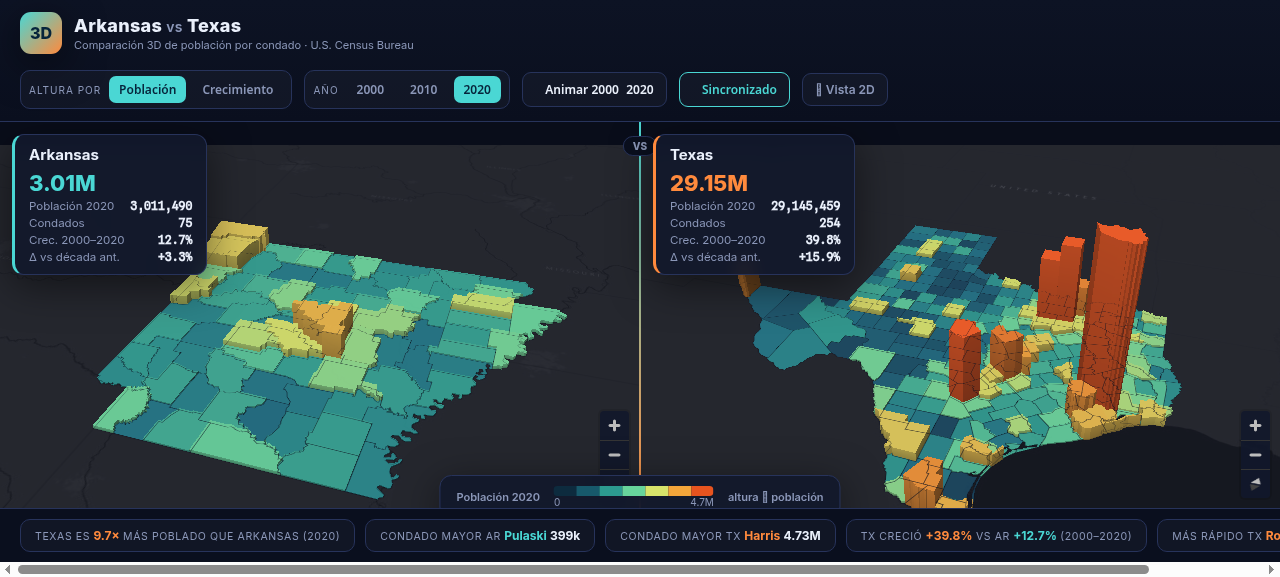
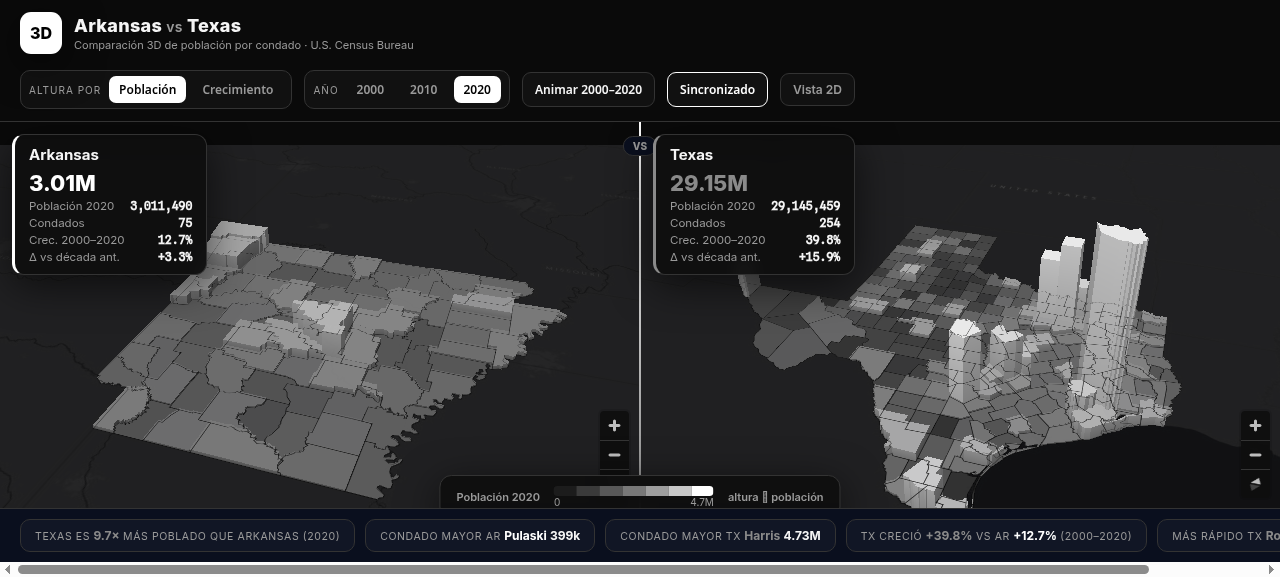
Restyle UI: monochrome overlays, remove emojis, fix KPI/zoom overlap
- Convert all UI chrome (panels, menus, overlays, buttons, charts) to a
  black & white palette in both 2D and 3D views
- 3D extrusion ramp now grayscale (dark=low, white=high)
- Remove all emoji from UI labels and buttons
- Move Leaflet zoom controls to top-right so they no longer sit under
  the KPI strip

diff --git a/web/app.js b/web/app.js
@@ -308,18 +308,18 @@ function lineChart(points, labels, title, sub) {
   const y = v => H - pad.b - ((v - min)/(max - min || 1)) * (H - pad.t - pad.b);
   const path = points.map((v,i)=> (i===0?'M':'L') + x(i).toFixed(1) + ' ' + y(v).toFixed(1)).join(' ');
   const area = path + ` L ${x(points.length-1)} ${H-pad.b} L ${x(0)} ${H-pad.b} Z`;
-  const dots = points.map((v,i)=>`<circle cx="${x(i).toFixed(1)}" cy="${y(v).toFixed(1)}" r="2.6" fill="#4ad7d4"/>`).join('');
+  const dots = points.map((v,i)=>`<circle cx="${x(i).toFixed(1)}" cy="${y(v).toFixed(1)}" r="2.6" fill="#ffffff"/>`).join('');
   const xlabels = labels.map((l,i)=> (i%3===0||i===labels.length-1)
     ? `<text class="axis-label" x="${x(i)}" y="${H-6}" text-anchor="middle">${l}</text>` : '').join('');
   const ylabels = [max, (max+min)/2, min].map(v =>
     `<text class="axis-label" x="4" y="${(y(v)+3).toFixed(1)}">${fmtK(v)}</text>`).join('');
   svg.innerHTML = `
     <defs><linearGradient id="g" x1="0" y1="0" x2="0" y2="1">
-      <stop offset="0%" stop-color="#4ad7d4" stop-opacity=".45"/>
-      <stop offset="100%" stop-color="#4ad7d4" stop-opacity="0"/>
+      <stop offset="0%" stop-color="#ffffff" stop-opacity=".30"/>
+      <stop offset="100%" stop-color="#ffffff" stop-opacity="0"/>
     </linearGradient></defs>
     <path d="${area}" fill="url(#g)"/>
-    <path d="${path}" fill="none" stroke="#4ad7d4" stroke-width="2"/>
+    <path d="${path}" fill="none" stroke="#ffffff" stroke-width="2"/>
     ${dots}${xlabels}${ylabels}`;
 }
 
@@ -381,11 +381,11 @@ function renderQuality() {
       <small>Completitud media · clave: <code>${q.key_field}</code> (${q.unique_keys} únicas)</small></div>
     </div>
     <div class="q-issues">${q.issues.map(i =>
-      `<span class="q-issue ${/Sin anomalias/i.test(i)?'ok':'warn'}">${/Sin anomalias/i.test(i)?'✓':'⚠'} ${i}</span>`).join('')}</div>`;
+      `<span class="q-issue ${/Sin anomalias/i.test(i)?'ok':'warn'}">${/Sin anomalias/i.test(i)?'OK':'!'} · ${i}</span>`).join('')}</div>`;
   el.innerHTML = fields.map(([name, v]) => `
     <div class="q-field">
       <div class="qf-top"><code>${name}</code><span>${v.completeness}%</span></div>
-      <div class="qf-bar"><span style="width:${v.completeness}%; background:${v.completeness>=99?'#5fd0a8':v.completeness>=90?'#f2e394':'#e8622a'}"></span></div>
+      <div class="qf-bar"><span style="width:${v.completeness}%; background:${v.completeness>=99?'#f5f5f5':v.completeness>=90?'#9a9a9a':'#5a5a5a'}"></span></div>
       <div class="qf-meta">${v.nulls>0?`<span class="warn">${v.nulls} nulos</span> · `:''}${
         v.min!=null ? `min ${fmtK(v.min)} · máx ${fmtK(v.max)} · media ${fmtK(v.mean)}` : 'categórico'}</div>
     </div>`).join('');
@@ -435,7 +435,7 @@ function exportCitation() {
     + `Servicio ArcGIS REST (FEATURESERVICES/Boundaries/FeatureServer). `
     + `CRS EPSG:4326. Consultado ${new Date().toLocaleDateString('es')}. Dominio público (${year}).`;
   navigator.clipboard?.writeText(cite).then(
-    () => flashNote('🔖 Cita copiada al portapapeles'),
+    () => flashNote('Cita copiada al portapapeles'),
     () => download('cita.txt', cite, 'text/plain'));
 }
 
@@ -505,9 +505,9 @@ function bindControls() {
 function togglePlay() {
   const btn = document.getElementById('playBtn');
   if (state.playing) {
-    clearInterval(state.playTimer); state.playing = false; btn.textContent = '▶ Animar un siglo'; return;
+    clearInterval(state.playTimer); state.playing = false; btn.textContent = 'Animar un siglo'; return;
   }
-  state.playing = true; btn.textContent = '⏸ Pausar';
+  state.playing = true; btn.textContent = 'Pausar';
   let idx = DECADES.indexOf(state.year);
   state.playTimer = setInterval(() => {
     idx = (idx + 1) % DECADES.length;
@@ -519,8 +519,10 @@ function togglePlay() {
 
 /* ---------------- init ---------------- */
 async function init() {
-  map = L.map('map', { zoomControl: true, attributionControl: false, minZoom: 6, maxZoom: 12 })
+  map = L.map('map', { zoomControl: false, attributionControl: false, minZoom: 6, maxZoom: 12 })
     .setView([34.8, -92.3], 7);
+  // Controles de zoom a la derecha para no chocar con los KPIs (arriba-izquierda)
+  L.control.zoom({ position: 'topright' }).addTo(map);
 
   L.tileLayer('https://server.arcgisonline.com/ArcGIS/rest/services/Canvas/World_Dark_Gray_Base/MapServer/tile/{z}/{y}/{x}', { maxZoom: 16 }).addTo(map);
   L.tileLayer('https://server.arcgisonline.com/ArcGIS/rest/services/Canvas/World_Dark_Gray_Reference/MapServer/tile/{z}/{y}/{x}', { maxZoom: 16, opacity: .9 }).addTo(map);

diff --git a/web/style.css b/web/style.css
@@ -1,17 +1,18 @@
 :root {
-  --bg: #0b1020;
-  --bg-soft: #121a30;
-  --panel: #151d35;
-  --panel-2: #1b2544;
-  --line: #27335b;
-  --text: #e8edf9;
-  --muted: #8b97b8;
-  --accent: #4ad7d4;
-  --accent-2: #f2b705;
-  --county: #4ad7d4;
-  --muni: #ff7e6b;
-  --cong: #b388ff;
-  --shadow: 0 10px 40px rgba(0, 0, 0, .45);
+  /* Paleta monocromática blanco y negro para la UI */
+  --bg: #0a0a0a;
+  --bg-soft: #111111;
+  --panel: #161616;
+  --panel-2: #202020;
+  --line: #333333;
+  --text: #f5f5f5;
+  --muted: #9a9a9a;
+  --accent: #ffffff;
+  --accent-2: #cfcfcf;
+  --county: #ffffff;
+  --muni: #bdbdbd;
+  --cong: #7d7d7d;
+  --shadow: 0 10px 40px rgba(0, 0, 0, .6);
 }
 
 * { box-sizing: border-box; margin: 0; padding: 0; }
@@ -55,8 +56,8 @@ body {
   border-radius: 12px;
   display: grid; place-items: center;
   font-weight: 800; font-size: 18px;
-  color: #06243b;
-  background: linear-gradient(135deg, var(--accent), var(--accent-2));
+  color: #000;
+  background: #fff;
   box-shadow: var(--shadow);
 }
 .brand h1 { font-size: 16px; font-weight: 700; letter-spacing: .2px; }
@@ -111,7 +112,7 @@ body {
 .layer-btn.active {
   border-color: var(--accent);
   box-shadow: 0 0 0 1px var(--accent) inset;
-  background: linear-gradient(135deg, rgba(74,215,212,.14), rgba(74,215,212,.04));
+  background: rgba(255,255,255,.08);
 }
 
 /* metric + buttons */
@@ -177,9 +178,9 @@ body {
 
 /* ---------- MAP ---------- */
 #map-wrap { position: relative; }
-#map { position: absolute; inset: 0; background: #0b1020; }
+#map { position: absolute; inset: 0; background: #000; }
 
-.leaflet-container { background: #0b1020 !important; font-family: 'Inter', sans-serif; }
+.leaflet-container { background: #000 !important; font-family: 'Inter', sans-serif; }
 .leaflet-control-zoom a {
   background: var(--panel) !important;
   color: var(--text) !important;
@@ -197,7 +198,7 @@ body {
   max-width: calc(100% - 32px);
 }
 .kpi {
-  background: rgba(21,29,53,.86);
+  background: rgba(10,10,10,.9);
   backdrop-filter: blur(8px);
   border: 1px solid var(--line);
   border-radius: 12px;
@@ -214,8 +215,8 @@ body {
   position: absolute;
   z-index: 600;
   pointer-events: none;
-  background: rgba(10,15,31,.95);
-  border: 1px solid var(--accent);
+  background: rgba(10,10,10,.96);
+  border: 1px solid var(--line);
   border-radius: 10px;
   padding: 10px 12px;
   min-width: 170px;
@@ -239,7 +240,7 @@ body {
   bottom: 16px; right: 16px;
   z-index: 500;
   width: 340px;
-  background: rgba(21,29,53,.9);
+  background: rgba(10,10,10,.92);
   backdrop-filter: blur(8px);
   border: 1px solid var(--line);
   border-radius: 14px;
@@ -270,16 +271,16 @@ body {
   display: block;
   text-align: center;
   text-decoration: none;
-  color: #06243b;
+  color: #000;
   font-size: 13px;
   font-weight: 700;
   padding: 11px;
   border-radius: 12px;
-  background: linear-gradient(135deg, #4ad7d4, #ff8a3d);
-  box-shadow: 0 6px 20px rgba(255,138,61,.25);
+  background: #fff;
+  box-shadow: var(--shadow);
   transition: .18s;
 }
-.banner-3d:hover { transform: translateY(-2px); box-shadow: 0 10px 26px rgba(255,138,61,.4); }
+.banner-3d:hover { transform: translateY(-2px); background: #e6e6e6; }
 .banner-3d b { font-weight: 800; }
 
 /* ====== PESTAÑAS ====== */
@@ -312,7 +313,7 @@ body {
   width: 100%; text-align: left; background: none; border: none; color: var(--text);
   padding: 9px 12px; cursor: pointer; font-size: 13px; display: flex; align-items: center; gap: 8px;
 }
-.sr-item:hover { background: rgba(74,215,212,.1); }
+.sr-item:hover { background: rgba(255,255,255,.08); }
 .sr-item small { margin-left: auto; color: var(--muted); font-size: 10.5px; }
 .sr-dot { width: 8px; height: 8px; border-radius: 50%; }
 .sr-empty { padding: 10px 12px; color: var(--muted); font-size: 12px; }
@@ -372,7 +373,7 @@ body {
 .q-score code { color: var(--accent); font-family: 'Spline Sans Mono', monospace; }
 .q-issues { display: flex; flex-direction: column; gap: 5px; }
 .q-issue { font-size: 11.5px; padding: 5px 9px; border-radius: 7px; }
-.q-issue.ok { background: rgba(95,208,168,.12); color: #7fe0b8; }
+.q-issue.ok { background: rgba(255,255,255,.08); color: #e6e6e6; }
 .q-issue.warn { background: rgba(242,183,5,.12); color: var(--accent-2); }
 .q-field { border-top: 1px solid var(--line); padding: 8px 0; }
 .qf-top { display: flex; justify-content: space-between; font-size: 12px; }

diff --git a/web/compare3d.js b/web/compare3d.js
@@ -7,8 +7,8 @@
 const YEARS = [2000, 2010, 2020];
 const state = { metric: 'pop', year: 2020, playing: false, timer: null, sync: true };
 
-// rampa de color (pocos -> muchos)
-const RAMP = ['#0d2b3e', '#17596b', '#2c9a8f', '#67d49b', '#d7e36a', '#f3a53a', '#e8541f'];
+// rampa de color monocromática (pocos = oscuro -> muchos = claro)
+const RAMP = ['#1c1c1c', '#3a3a3a', '#585858', '#787878', '#9e9e9e', '#c8c8c8', '#ffffff'];
 
 // escalas de extrusión: metros de altura por unidad
 const EXTRUDE = {
@@ -32,7 +32,7 @@ function baseStyle() {
       },
     },
     layers: [
-      { id: 'bg', type: 'background', paint: { 'background-color': '#090d1a' } },
+      { id: 'bg', type: 'background', paint: { 'background-color': '#000000' } },
       { id: 'carto', type: 'raster', source: 'carto', paint: { 'raster-opacity': 0.5 } },
     ],
   };
@@ -98,7 +98,7 @@ function makeMap(container, stateFips, center, zoom) {
     });
     m.addLayer({
       id: 'edges', type: 'line', source: 'counties',
-      paint: { 'line-color': '#0a0f1e', 'line-width': 0.4, 'line-opacity': 0.5 },
+      paint: { 'line-color': '#000000', 'line-width': 0.4, 'line-opacity': 0.6 },
     });
 
     const code = stateFips === '05' ? 'AR' : 'TX';
@@ -200,7 +200,7 @@ function showHover(p, ev, code) {
     <h3>${p.name} County</h3>
     <div class="hc-row">Pob. ${state.year} <b>${fmt(p['pop'+state.year])}</b></div>
     <div class="hc-row">2000 → 2020 <b>${fmt(p.pop2000)} → ${fmt(p.pop2020)}</b></div>
-    <div class="hc-row">Crecimiento <b style="color:${g>=0?'#67d49b':'#ff6b6b'}">${g>=0?'+':''}${g}%</b></div>`;
+    <div class="hc-row">Crecimiento <b style="color:${g>=0?'#ffffff':'#8a8a8a'}">${g>=0?'+':''}${g}%</b></div>`;
   card.classList.remove('hidden');
   card.style.left = (ev.clientX + 16) + 'px';
   card.style.top = (ev.clientY + 16) + 'px';
@@ -230,19 +230,19 @@ function bind() {
     state.sync = !state.sync;
     const btn = document.getElementById('syncBtn');
     btn.classList.toggle('active', state.sync);
-    btn.textContent = state.sync ? '🔗 Sincronizado' : '🔓 Independiente';
+    btn.textContent = state.sync ? 'Sincronizado' : 'Independiente';
   };
 }
 
 function togglePlay() {
   const btn = document.getElementById('playBtn');
   if (state.playing) {
-    clearInterval(state.timer); state.playing = false; btn.textContent = '▶ Animar 2000→2020'; return;
+    clearInterval(state.timer); state.playing = false; btn.textContent = 'Animar 2000–2020'; return;
   }
   if (state.metric === 'growth') {
     document.querySelector('.seg-btn[data-metric="pop"]').click();
   }
-  state.playing = true; btn.textContent = '⏸ Pausar';
+  state.playing = true; btn.textContent = 'Pausar';
   let i = YEARS.indexOf(state.year);
   state.timer = setInterval(() => {
     i = (i + 1) % YEARS.length;

diff --git a/web/index.html b/web/index.html
@@ -24,14 +24,14 @@
       </header>
 
       <a href="compare3d.html" class="banner-3d">
-        🏙 <b>Nuevo:</b> Comparación 3D · Arkansas vs Texas →
+        <b>Nuevo:</b> Comparación 3D · Arkansas vs Texas
       </a>
 
       <!-- Tabs -->
       <nav class="tabs" id="tabs">
-        <button class="tab active" data-tab="explore">🗺 Explorar</button>
-        <button class="tab" data-tab="dictionary">📋 Diccionario</button>
-        <button class="tab" data-tab="quality">✅ Calidad</button>
+        <button class="tab active" data-tab="explore">Explorar</button>
+        <button class="tab" data-tab="dictionary">Diccionario</button>
+        <button class="tab" data-tab="quality">Calidad</button>
       </nav>
 
       <!-- ===== TAB: EXPLORAR ===== -->
@@ -77,7 +77,7 @@
           <h2>Línea de tiempo · <span id="yearLabel">2020</span></h2>
           <input type="range" id="yearSlider" min="1900" max="2020" step="10" value="2020" />
           <div class="slider-ticks"><span>1900</span><span>1960</span><span>2020</span></div>
-          <button id="playBtn" class="play-btn">▶ Animar un siglo</button>
+          <button id="playBtn" class="play-btn">Animar un siglo</button>
         </section>
 
         <section class="panel" id="rankPanel">
@@ -88,9 +88,9 @@
         <section class="panel export">
           <h2>Exportar selección</h2>
           <div class="export-btns">
-            <button id="exportGeo" class="exp-btn">⬇ GeoJSON</button>
-            <button id="exportCsv" class="exp-btn">⬇ CSV</button>
-            <button id="exportCite" class="exp-btn">🔖 Citar</button>
+            <button id="exportGeo" class="exp-btn">GeoJSON</button>
+            <button id="exportCsv" class="exp-btn">CSV</button>
+            <button id="exportCite" class="exp-btn">Citar</button>
           </div>
           <small class="export-note" id="exportNote"></small>
         </section>

diff --git a/web/compare3d.css b/web/compare3d.css
@@ -1,12 +1,12 @@
 :root {
-  --bg: #090d1a;
-  --panel: rgba(17,24,43,.92);
-  --line: #27335b;
-  --text: #eaf0fb;
-  --muted: #8b97b8;
-  --ar: #4ad7d4;
-  --tx: #ff8a3d;
-  --shadow: 0 10px 40px rgba(0,0,0,.5);
+  --bg: #0a0a0a;
+  --panel: rgba(14,14,14,.94);
+  --line: #333333;
+  --text: #f5f5f5;
+  --muted: #9a9a9a;
+  --ar: #ffffff;
+  --tx: #8a8a8a;
+  --shadow: 0 10px 40px rgba(0,0,0,.6);
 }
 * { box-sizing: border-box; margin: 0; padding: 0; }
 html, body { height: 100%; }
@@ -23,15 +23,15 @@ body {
 #topbar {
   display: flex; align-items: center; justify-content: space-between;
   gap: 16px; padding: 12px 20px;
-  background: linear-gradient(180deg, #0d1324, #0a0f1e);
+  background: #0a0a0a;
   border-bottom: 1px solid var(--line);
   z-index: 20; flex-wrap: wrap;
 }
 .tb-brand { display: flex; align-items: center; gap: 12px; }
 .tb-mark {
   width: 42px; height: 42px; border-radius: 11px; display: grid; place-items: center;
-  font-weight: 800; color: #06243b;
-  background: linear-gradient(135deg, var(--ar), var(--tx));
+  font-weight: 800; color: #000;
+  background: #fff;
   box-shadow: var(--shadow);
 }
 .tb-brand h1 { font-size: 18px; font-weight: 800; letter-spacing: .3px; }
@@ -51,7 +51,7 @@ body {
   transition: .15s;
 }
 .seg-btn:hover, .yr-btn:hover { color: var(--text); }
-.seg-btn.active, .yr-btn.active { background: var(--ar); color: #06243b; }
+.seg-btn.active, .yr-btn.active { background: #fff; color: #000; }
 .play, .toggle, .link-2d {
   border: 1px solid var(--line); border-radius: 9px;
   padding: 8px 12px; cursor: pointer; font-weight: 600; font-size: 12px;

diff --git a/web/compare3d.html b/web/compare3d.html
@@ -33,9 +33,9 @@
         <button class="yr-btn active" data-year="2020">2020</button>
       </div>
 
-      <button id="playBtn" class="play">▶ Animar 2000→2020</button>
-      <button id="syncBtn" class="toggle active" title="Sincronizar cámaras">🔗 Sincronizado</button>
-      <a href="index.html" class="link-2d">← Vista 2D</a>
+      <button id="playBtn" class="play">Animar 2000–2020</button>
+      <button id="syncBtn" class="toggle active" title="Sincronizar cámaras">Sincronizado</button>
+      <a href="index.html" class="link-2d">Vista 2D</a>
     </div>
   </header>
 
